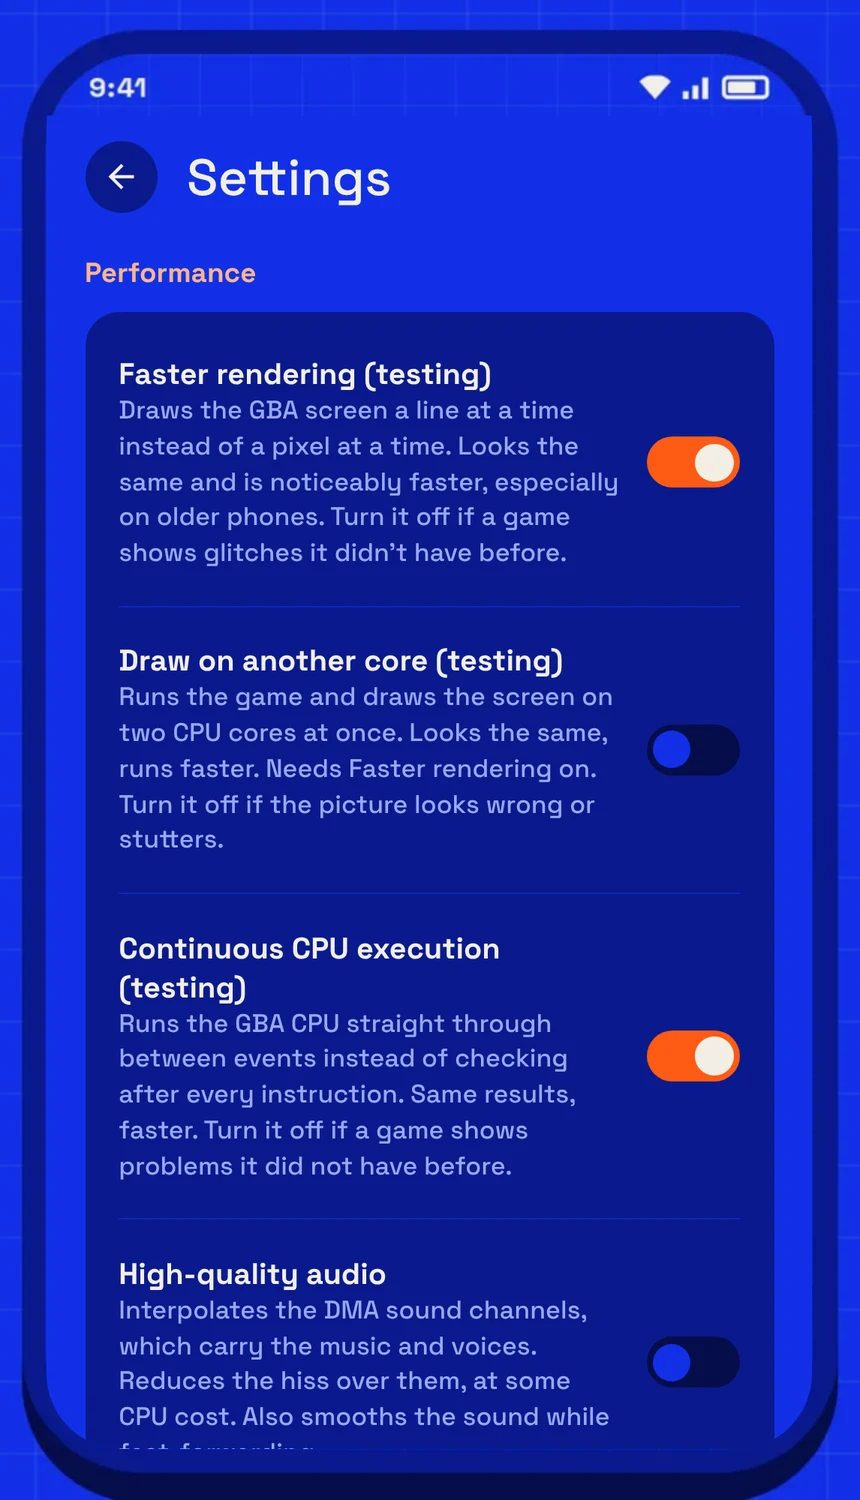
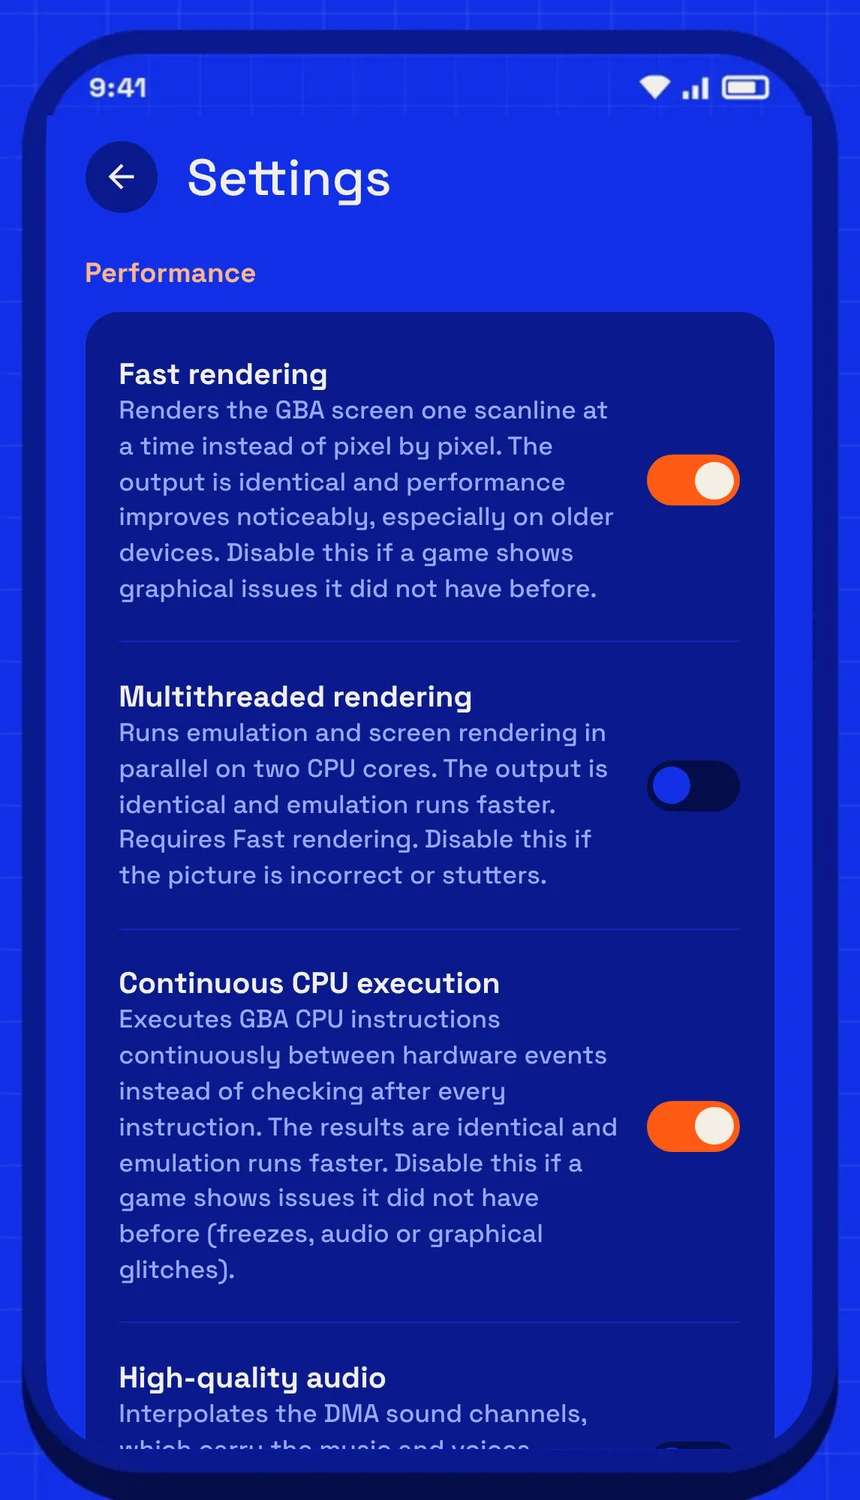
Drop testing labels, rename performance settings, refresh mockups

diff --git a/features.html b/features.html
@@ -19,7 +19,7 @@
 </header></div>
 <main>
 <div class="doc"><nav class="side"><ol><li><a href="guide.html">Getting started</a></li><li><a href="link.html">Link play</a></li><li><a href="hhcode.html">Extended codes</a></li><li><a href="memory.html">Memory tools</a></li><li><a href="cheats.html">Cheats</a></li><li><a href="features.html" aria-current=page>Features and settings</a></li><li><a href="faq.html">FAQ</a></li><li><a href="privacy.html">Privacy policy</a></li></ol></nav><article class="prose"><h1>Features and settings</h1>
-<p class="lead">The main features, and what the settings marked "testing" actually do.</p>
+<p class="lead">The main features, and what the performance settings do.</p>
 
 <h2>Free and premium</h2>
 <p>Playing, in-game saves, save states, cheats, controllers, on-screen buttons and screen orientation are all free. These are premium features:</p>
@@ -37,18 +37,18 @@
 <ul>
   <li><b>Filters</b>: switch them from the game menu, per game.</li>
   <li><b>LCD ghosting</b>: emulates the slow response of the original screen. Some games flicker sprites every other frame to fake transparency; this makes them look right.</li>
-  <li><b>Faster rendering (testing)</b>: draws a line at a time instead of a pixel at a time. Much faster, identical picture. On by default.</li>
-  <li><b>Draw on another core (testing)</b>: runs the game and draws the picture on two CPU cores at once. Needs faster rendering.</li>
+  <li><b>Fast rendering</b>: renders the screen one scanline at a time instead of pixel by pixel. Much faster, identical picture. On by default.</li>
+  <li><b>Multithreaded rendering</b>: runs emulation and rendering in parallel on two CPU cores. Requires Fast rendering.</li>
 </ul>
 
 <div class="fig phone"><a href="img/en/m-game-menu.webp" target="_blank"><img src="img/en/m-game-menu.webp" alt="The game menu" loading="lazy"></a></div>
-<p class="cap">The game menu: speed, renderer and the "testing" switches can be changed without leaving the game.</p>
+<p class="cap">The game menu: speed, renderer and the performance switches can be changed without leaving the game.</p>
 <h2>Performance and battery</h2>
 <ul>
-  <li><b>Continuous CPU execution (testing)</b>: skips checks between instructions when nothing is happening. Faster and lighter on the battery, with exactly the same results. Off automatically while linked.</li>
+  <li><b>Continuous CPU execution</b>: skips checks between instructions when nothing is happening. Faster and lighter on the battery, with exactly the same results. Off automatically while linked.</li>
   <li><b>Power saving</b>: avoids redrawing identical frames and similar savings, so the phone runs cooler. Can be set per game.</li>
 </ul>
-<p>You can switch these from the game menu's display section without leaving the game. If anything looks or runs oddly, turn off the "testing" switches first.</p>
+<p>You can switch these from the game menu's display section without leaving the game. If anything looks or runs oddly, turn these switches off first.</p>
 
 <div class="fig phone"><a href="img/en/m-settings.webp" target="_blank"><img src="img/en/m-settings.webp" alt="Settings" loading="lazy"></a></div>
 <p class="cap">Settings › Performance.</p>

diff --git a/zh/features.html b/zh/features.html
@@ -19,7 +19,7 @@
 </header></div>
 <main>
 <div class="doc"><nav class="side"><ol><li><a href="guide.html">快速上手</a></li><li><a href="link.html">联机</a></li><li><a href="hhcode.html">扩展码</a></li><li><a href="memory.html">内存工具</a></li><li><a href="cheats.html">金手指</a></li><li><a href="features.html" aria-current=page>功能与设置</a></li><li><a href="faq.html">常见问题</a></li><li><a href="privacy.html">隐私政策</a></li></ol></nav><article class="prose"><h1>功能与设置</h1>
-<p class="lead">这一页列出主要功能，以及设置里那些带「测试中」的开关是做什么的。</p>
+<p class="lead">这一页列出主要功能，以及设置里几个性能开关的作用。</p>
 
 <h2>免费功能与高级功能</h2>
 <p>玩游戏、游戏存档、即时存档、金手指、手柄、屏幕按键和屏幕方向都是免费的。下面这些是高级功能：</p>
@@ -37,18 +37,18 @@
 <ul>
   <li><b>滤镜</b>：在游戏菜单里切换，每个游戏可以单独设置。</li>
   <li><b>LCD 残影</b>：模拟原机屏幕的慢响应。有些游戏靠精灵隔帧闪烁做半透明效果，打开后看起来才正常。</li>
-  <li><b>快速渲染（测试中）</b>：按行画画面，比逐个像素画快很多，画出来完全一样。默认打开。</li>
-  <li><b>画面用另一个核心画（测试中）</b>：模拟游戏和画画面分给两个 CPU 核心同时做。要先开快速渲染。</li>
+  <li><b>快速渲染</b>：以扫描线为单位绘制画面，比逐像素绘制快很多，画面完全一样。默认打开。</li>
+  <li><b>多线程渲染</b>：游戏模拟和画面绘制由两个 CPU 核心并行处理。需先开启快速渲染。</li>
 </ul>
 
 <div class="fig phone"><a href="../img/zh/m-game-menu.webp" target="_blank"><img src="../img/zh/m-game-menu.webp" alt="游戏菜单" loading="lazy"></a></div>
-<p class="cap">游戏菜单：速度、渲染器和「测试中」的开关，不用退出游戏就能改。</p>
+<p class="cap">游戏菜单：速度、渲染器和性能开关，不用退出游戏就能改。</p>
 <h2>性能和省电</h2>
 <ul>
-  <li><b>CPU 连续执行（测试中）</b>：减少每条指令之后的检查，模拟更快、更省电，结果和原来完全一样。联机时自动不用。</li>
+  <li><b>CPU 连续执行</b>：减少每条指令之后的检查，模拟更快、更省电，结果和原来完全一样。联机时自动不用。</li>
   <li><b>省电模式</b>：画面没变化时就不重复刷新，手机更凉快、更省电。可以对单个游戏单独设置。</li>
 </ul>
-<p>这些开关都可以在游戏菜单「画面」组里随时切换，不用退出游戏。觉得画面或速度有异常时，先把带「测试中」的关掉试试。</p>
+<p>这些开关都可以在游戏菜单「画面」组里随时切换，不用退出游戏。觉得画面或速度有异常时，先把这几个开关关掉试试。</p>
 
 <div class="fig phone"><a href="../img/zh/m-settings.webp" target="_blank"><img src="../img/zh/m-settings.webp" alt="设置" loading="lazy"></a></div>
 <p class="cap">设置 › 性能。</p>

diff --git a/zh/faq.html b/zh/faq.html
@@ -48,7 +48,7 @@
 <h3>换手机后怎么带走存档</h3>
 <p>游戏存档是游戏旁边同名的 <code>.sav</code> 文件，和游戏一起拷到新手机的游戏文件夹就行。</p>
 <h3>某个游戏打不开或画面不对</h3>
-<p>先在设置里把带「测试中」的开关关掉试试。有个别游戏需要官方 BIOS，可以在「设置 › GBA BIOS」里导入。还是不行的话请告诉我们游戏名和版本。</p>
+<p>先在设置里把「快速渲染」「多线程渲染」「CPU 连续执行」关掉试试。有个别游戏需要官方 BIOS，可以在「设置 › GBA BIOS」里导入。还是不行的话请告诉我们游戏名和版本。</p>
 
 <h2>金手指</h2>
 <h3>开了金手指没效果</h3>

diff --git a/faq.html b/faq.html
@@ -48,7 +48,7 @@
 <h3>How do I move my saves to a new phone?</h3>
 <p>In-game saves are the <code>.sav</code> files next to each game. Copy them with the games into the games folder on the new phone.</p>
 <h3>A game won't start or looks wrong</h3>
-<p>Turn off the settings marked "testing" first. A few games need the official BIOS, which you can import in Settings › GBA BIOS. If it still fails, tell us the game name and version.</p>
+<p>Turn off Fast rendering, Multithreaded rendering and Continuous CPU execution first. A few games need the official BIOS, which you can import in Settings › GBA BIOS. If it still fails, tell us the game name and version.</p>
 
 <h2>Cheats</h2>
 <h3>A cheat does nothing</h3>
